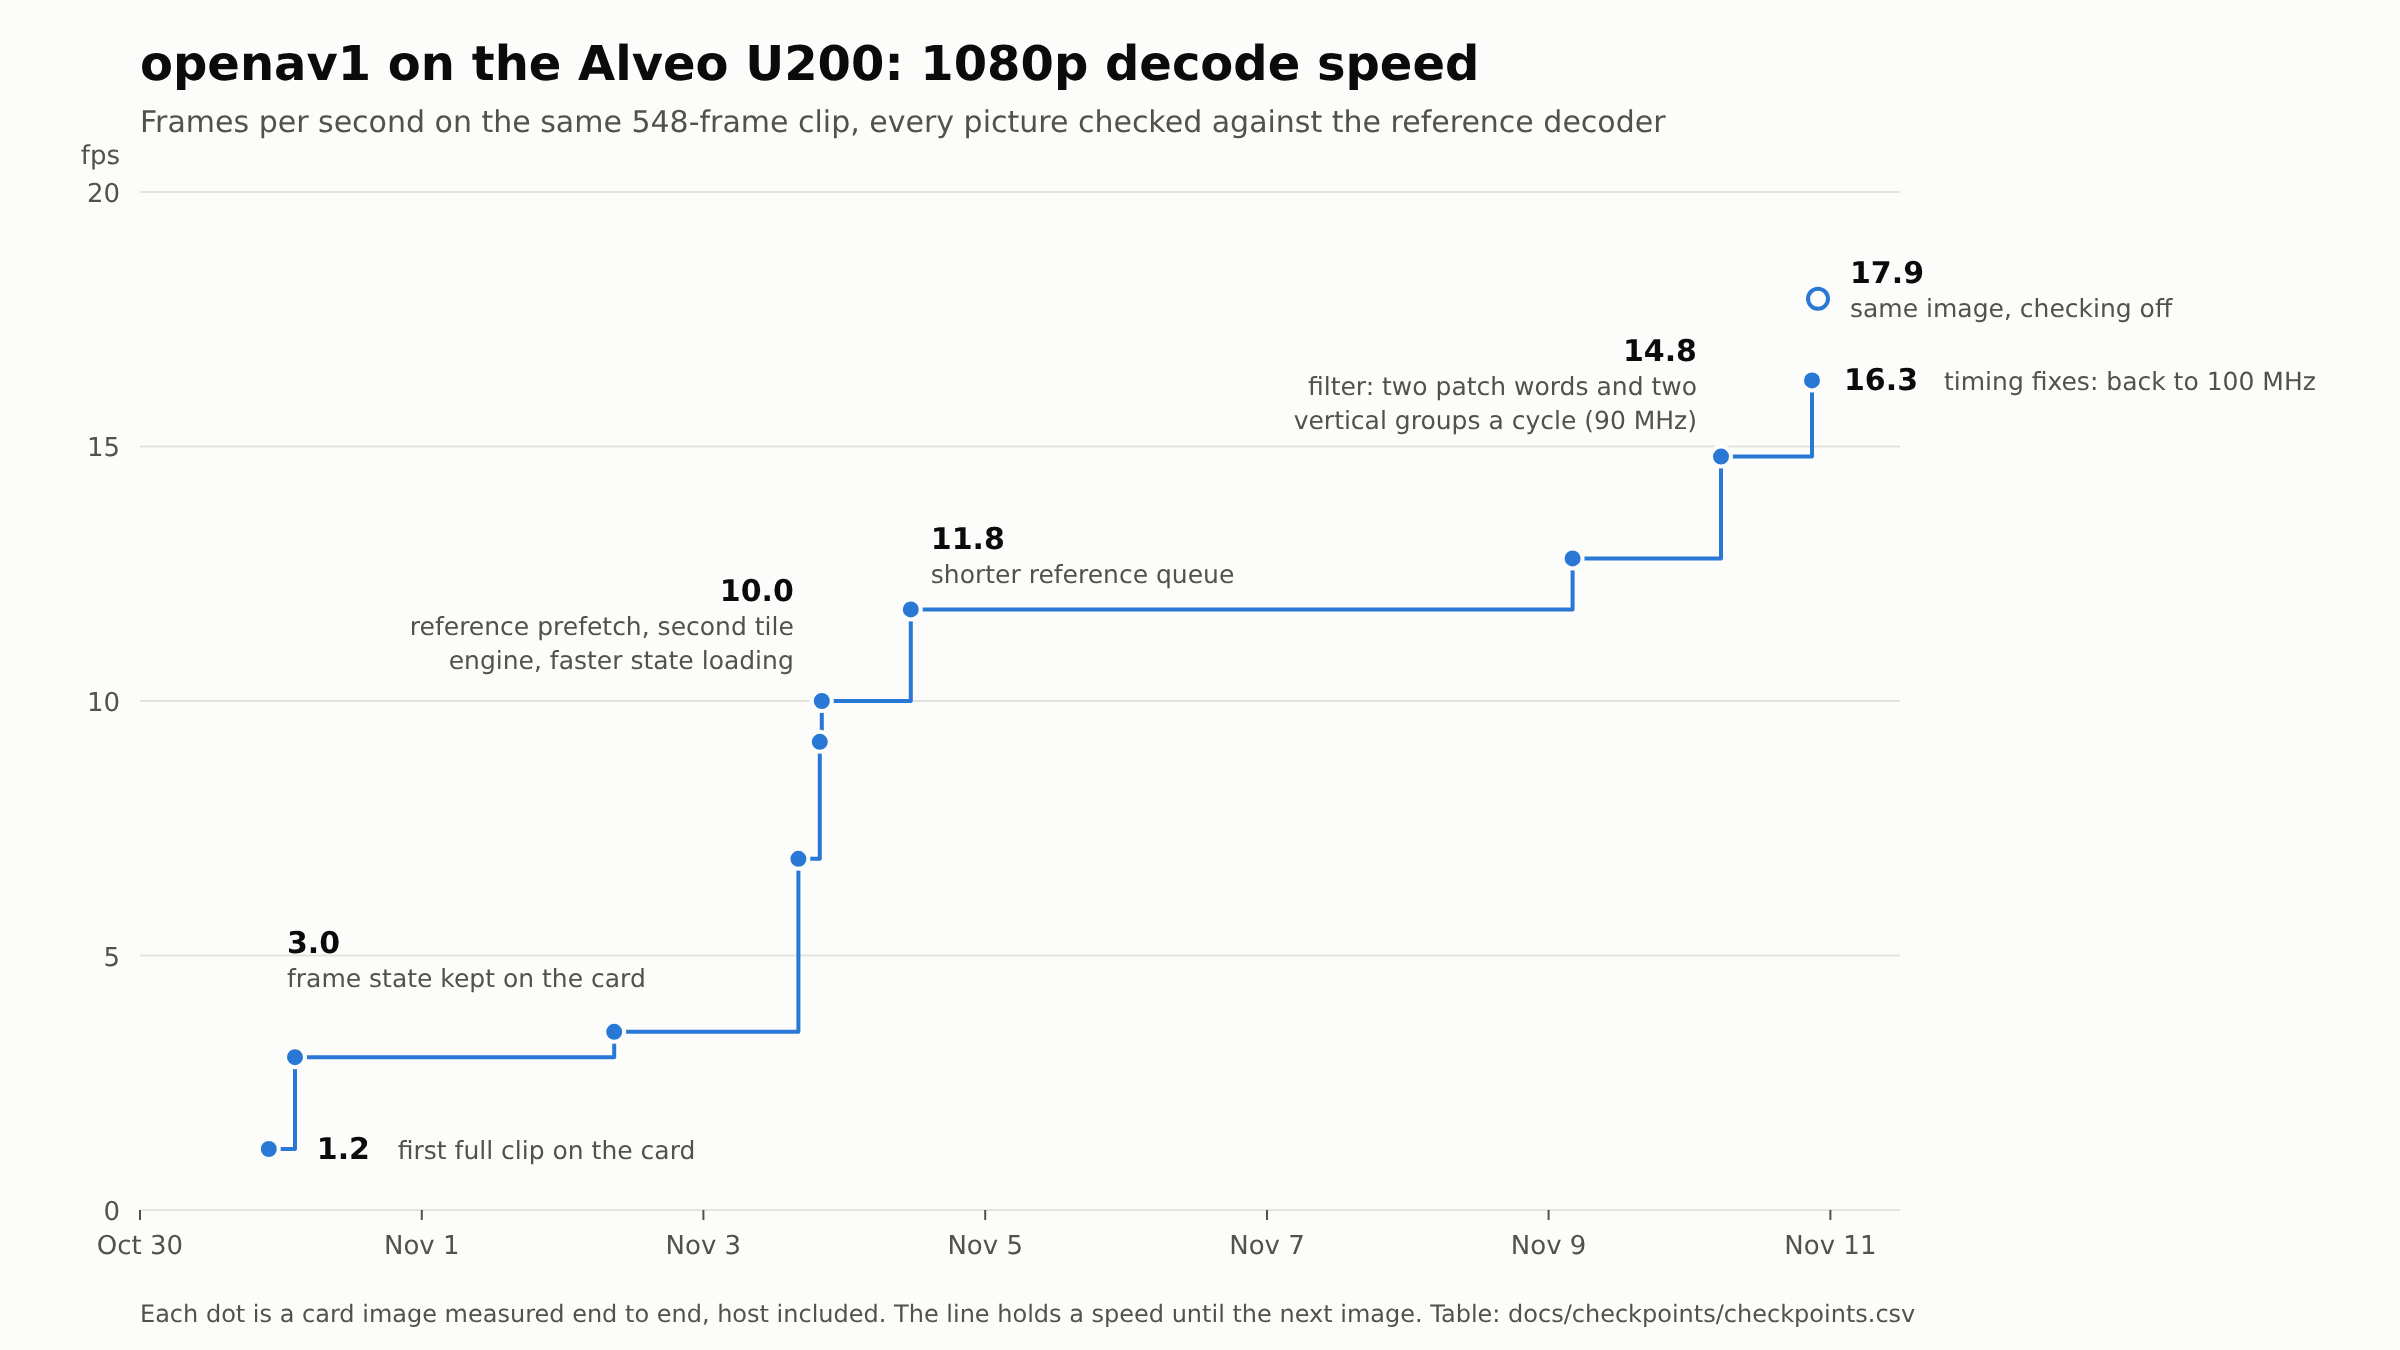
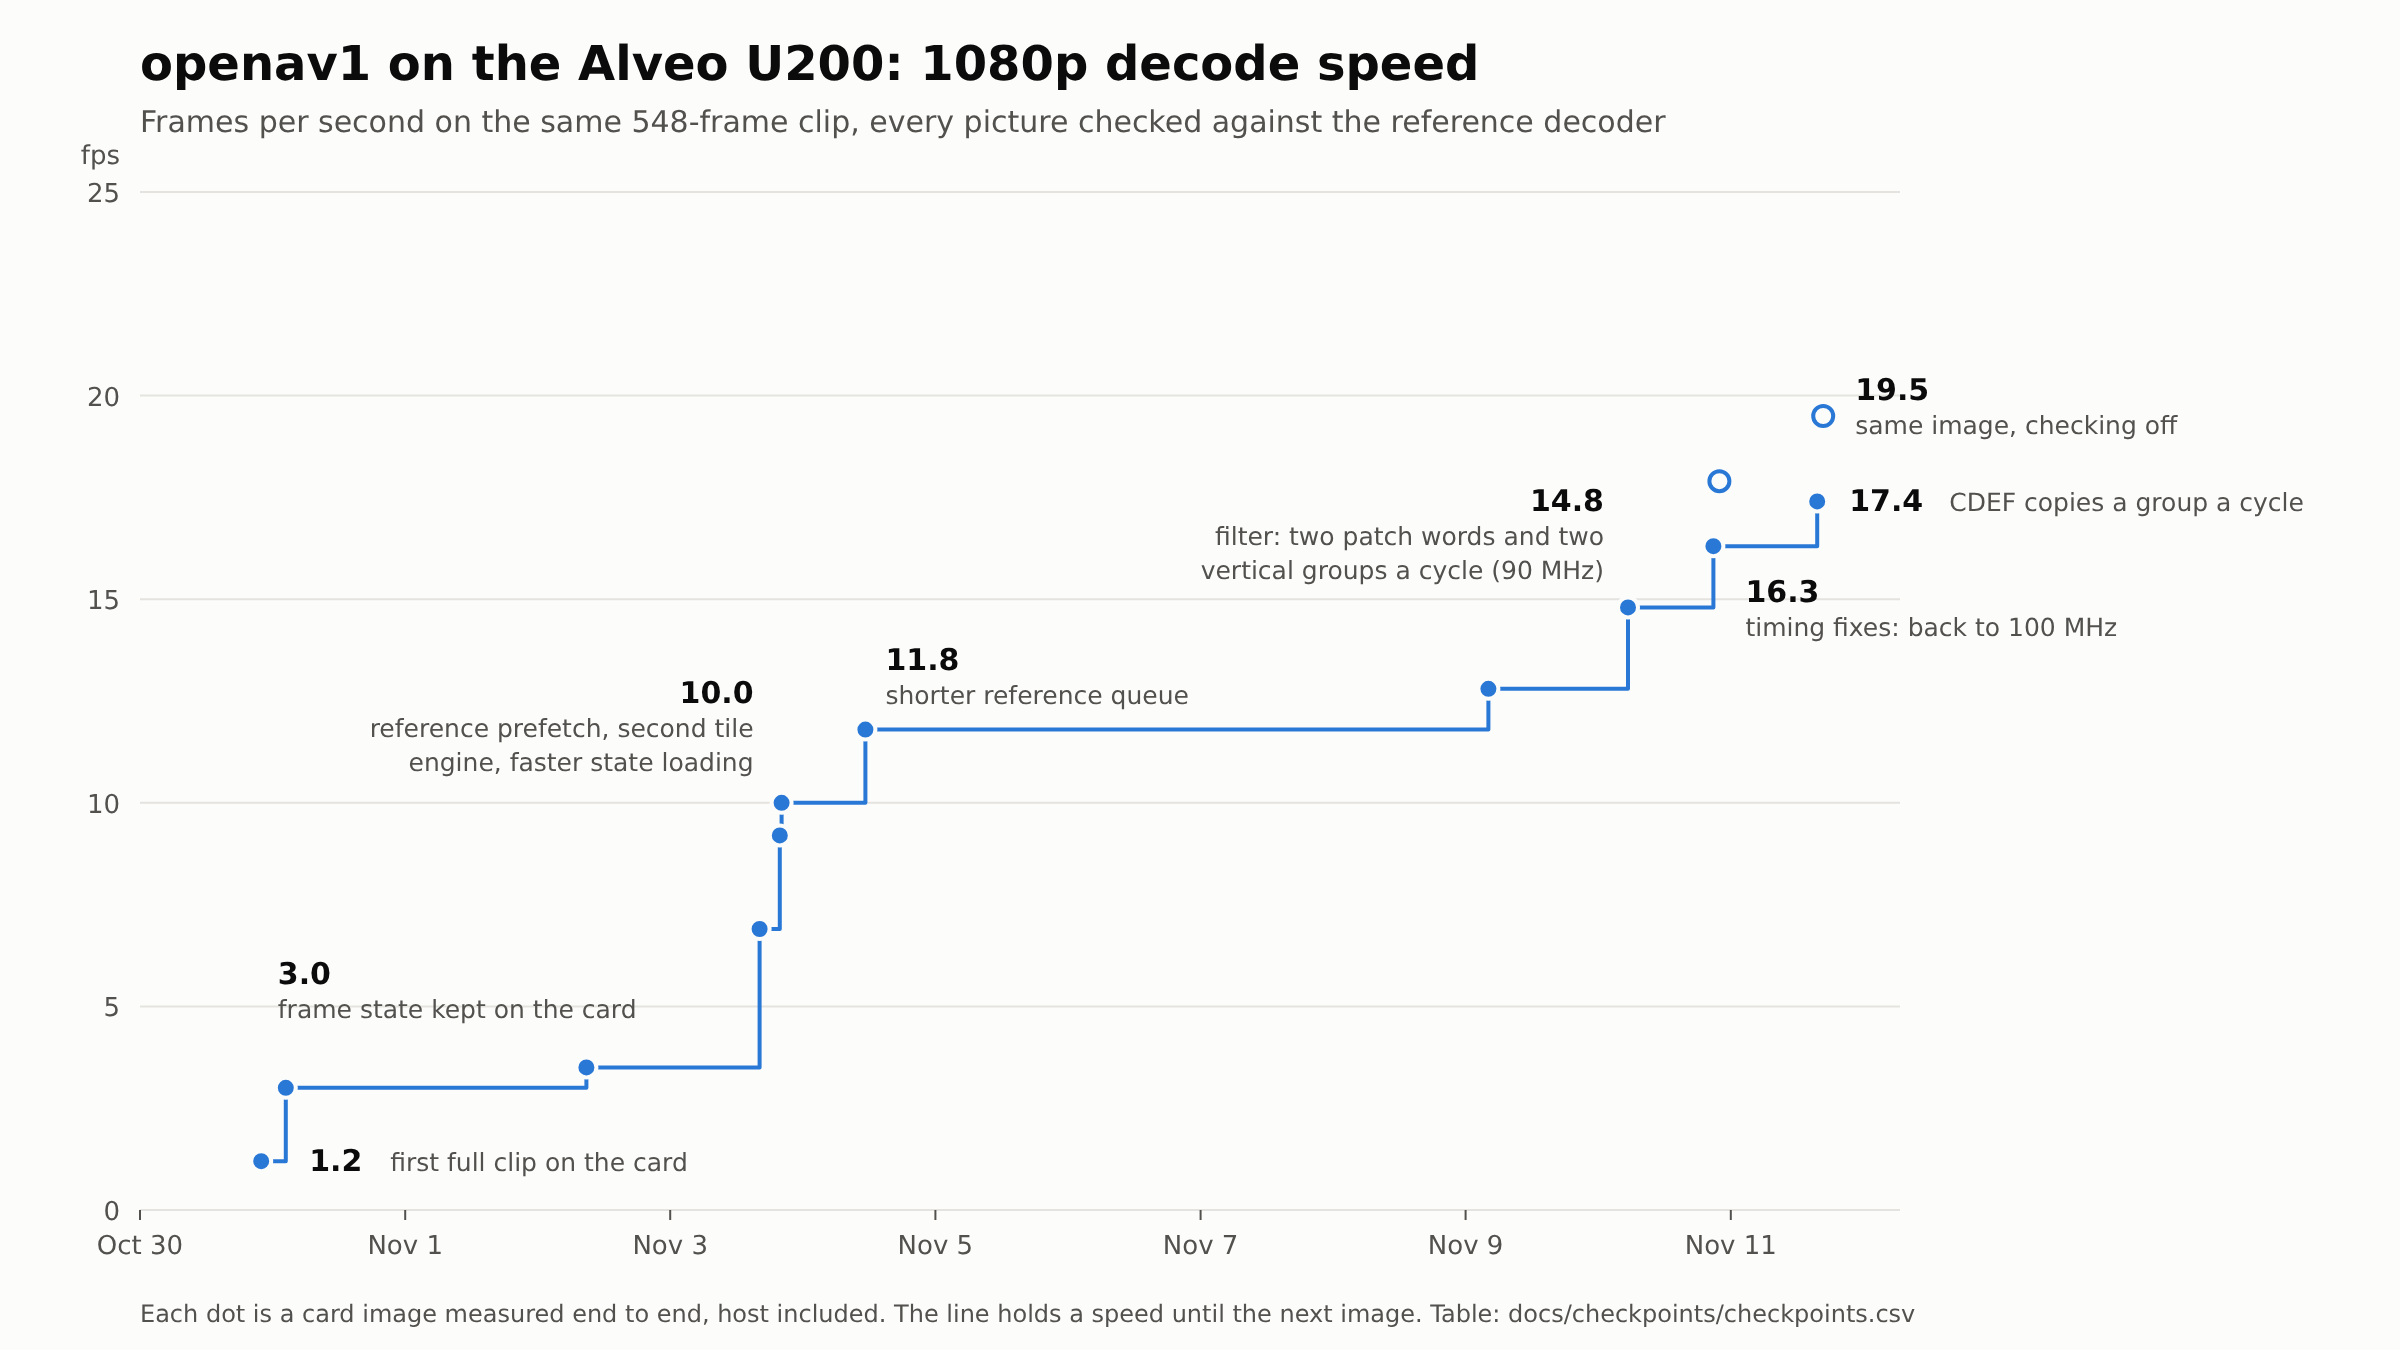
Checkpoint C11: 19.5 fps unchecked (17.4 checked) with u200-fm2rf8te2s100p-6fbf579
The CDEF copy rung and timing rung 5 on the card at 100 MHz, reference ring 8: census 301/0/463, both clips identical. Row, layout picture, chart redrawn (C10's label moved under its line), README speed line.

diff --git a/README.md b/README.md
@@ -12,7 +12,7 @@ This project is built by AI, though a human is involved.
 # current status
 
 *Argon profile-0 passing*
-*1080p at 17.9 fps*
+*1080p at 19.5 fps*
 
 ![1080p decode speed on the Alveo U200 over time](docs/checkpoints/fps.png)
 
